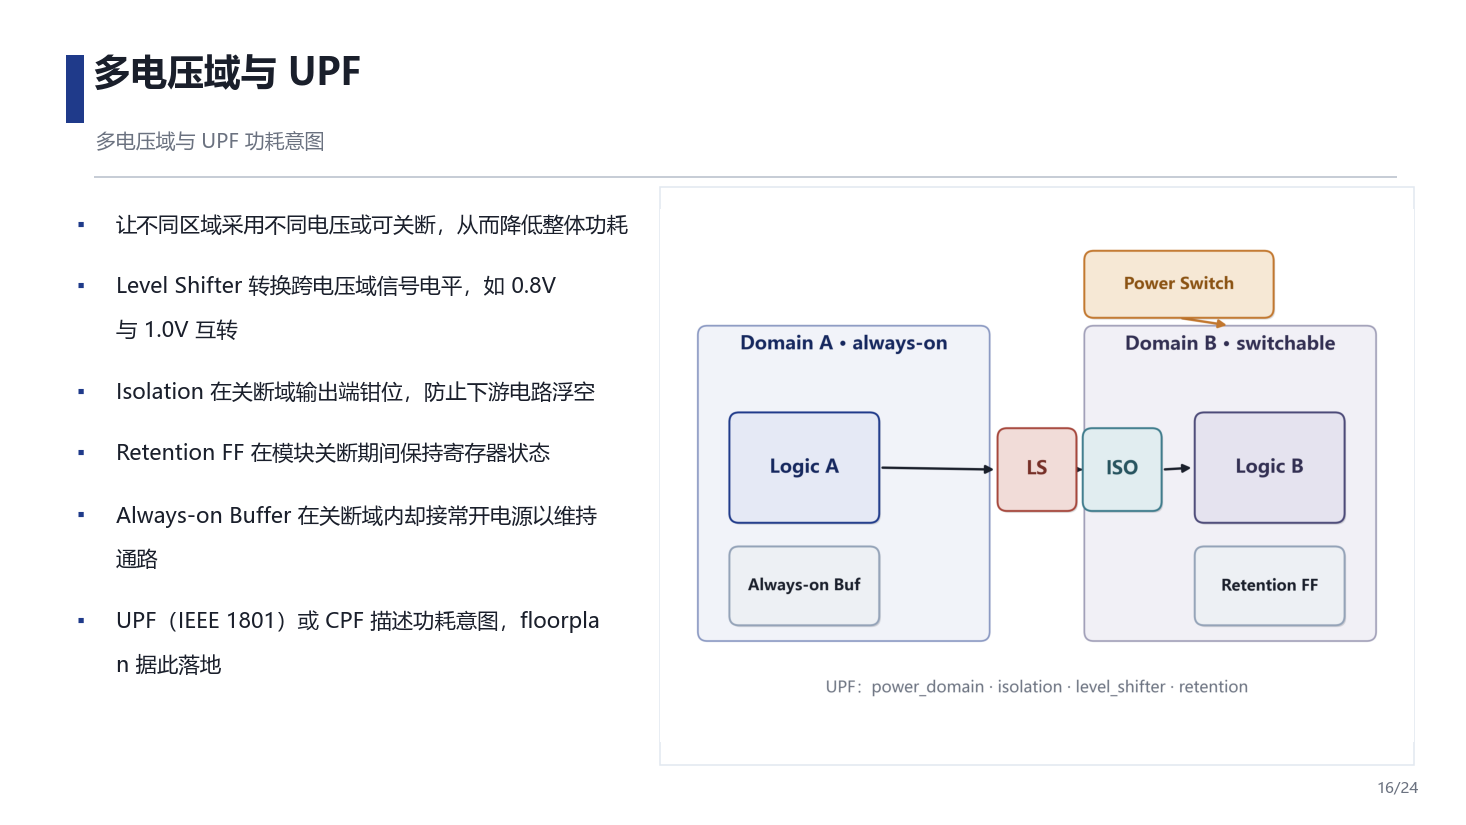
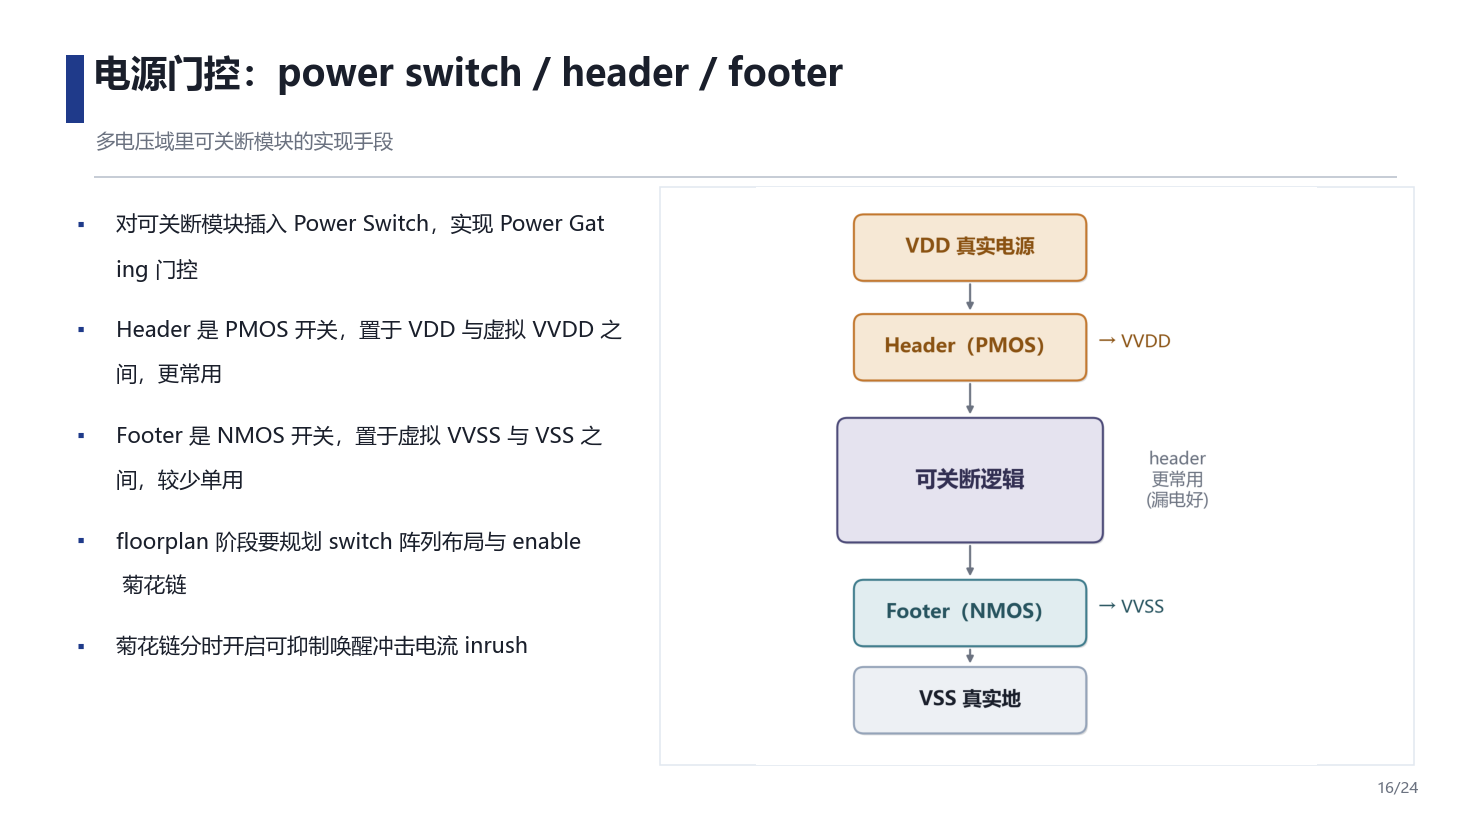
①(a) swap 门控↔多电压 (concept before technique) across deck/md/script + fix cross-refs/transitions; ② use real slide-layout master for chrome (bar/hairline/footer) so new slides inherit styling
deck.py: _layout_chrome copies chrome shapes into the layout's spTree (via scratch slide) → content slides inherit, cover/close mask it; restyle in one place / PowerPoint master view

diff --git a/_SlideKit/deck.py b/_SlideKit/deck.py
@@ -12,6 +12,7 @@ kind ∈ title | split | cards2 | grid6 | cols2 | close
 """
 import os
 import sys
+import copy
 
 import matplotlib
 matplotlib.use("Agg")
@@ -120,16 +121,42 @@ def _card(slide, x, t, w, h, fill="FFFFFF", line="CBD5E1", accent=None):
 
 
 def _title_block(slide, title, sub, accent=PRIMARY):
-    _bar(slide, 0.6, 0.5, 0.16, 0.62, PRIMARY)            # 左侧主色竖条（统一）
+    # 左侧主色竖条 + 全宽细分隔线已下放到版式（母版）上，这里只填每页不同的标题文本
     _txt(slide, (0.85, 0.42, 11.8, 0.8), [title], sizes=[28], bolds=[True], colors=[INK_C])
     if sub:
         _txt(slide, (0.87, 1.18, 11.8, 0.5), [sub], sizes=[14], colors=[SUB_C])
-    _bar(slide, 0.85, 1.6, 11.85, 0.022, HAIR_C)          # 全宽细分隔线（母版感）
 
 
-def _page(slide, n, total, label=PAGE_LABEL):
+def _page(slide, n, total):
+    # 页脚标签也在版式（母版）上，这里只填每页不同的页码
     _txt(slide, (10.8, 7.06, 2.2, 0.4), [f"{n:02d} / {total:02d}"], sizes=[10], colors=[PAGE_C], align=PP_ALIGN.RIGHT)
-    _txt(slide, (0.6, 7.06, 7, 0.4), [label], sizes=[10], colors=[PAGE_C])
+
+
+def _layout_chrome(prs, lay):
+    """把每页重复出现的"母版件"放到【版式】上——内容/导览页自动继承，新增页自动带样式；
+    要全局改样式（条色/分隔线/页脚）只改这一处，或直接在 PowerPoint 的版式视图里改。
+    python-pptx 不支持直接给版式加形状，故先在草稿页上画好，再把形状 XML 复制进版式、删草稿页。"""
+    scratch = prs.slides.add_slide(lay)
+    before = len(scratch.shapes._spTree)
+    _bar(scratch, 0.6, 0.5, 0.16, 0.62, PRIMARY)        # 左侧主色竖条
+    _bar(scratch, 0.85, 1.6, 11.85, 0.022, HAIR_C)      # 全宽细分隔线
+    _txt(scratch, (0.6, 7.06, 7, 0.4), [PAGE_LABEL], sizes=[10], colors=[PAGE_C])  # 左下页脚标签
+    lay_spTree = lay.shapes._spTree
+    for el in list(scratch.shapes._spTree)[before:]:
+        lay_spTree.append(copy.deepcopy(el))
+    sldIdLst = prs.slides._sldIdLst                      # 删掉这张临时草稿页
+    sid = sldIdLst[-1]
+    rId = sid.get(qn("r:id"))
+    sldIdLst.remove(sid)
+    try:
+        prs.part.drop_rel(rId)
+    except Exception:
+        pass
+
+
+def _mask(slide):
+    """封面/收尾页：盖一层满版白底，遮住版式继承来的内容页母版件，再画自己的整版设计。"""
+    _bar(slide, 0, 0, SLIDE_W, SLIDE_H, BG_C)
 
 
 def _bg(slide, color):
@@ -171,6 +198,7 @@ def _circ_num(slide, x, y, num, d=0.46, fill=PRIMARY, fg="FFFFFF", fs=15):
 def _cover(slide, s):
     """封面：浅底 + 左侧主色厚竖条 + 大标题，独立于内容页版式。"""
     _bg(slide, BG_C)
+    _mask(slide)
     _bar(slide, 0.0, 0.0, 0.30, SLIDE_H, PRIMARY)
     _txt(slide, (1.15, 1.45, 11, 0.4), [s.get("tag", "数字 IC 后端 · DVD Lecture 6")],
          sizes=[14], bolds=[True], colors=[PRIMARY])
@@ -202,6 +230,7 @@ def _agenda(slide, s):
 def _close(slide, s):
     """收尾：浅底 + 左侧主色厚竖条，与封面呼应。"""
     _bg(slide, BG_C)
+    _mask(slide)
     _bar(slide, 0.0, 0.0, 0.30, SLIDE_H, PRIMARY)
     _txt(slide, (1.1, 2.75, 11.6, 1.2), [s["title"]], sizes=[44], bolds=[True], colors=[INK_C])
     if s.get("sub"):
@@ -222,6 +251,7 @@ def build_pptx(specs, out_pptx, total, author="J.C", asset_dir="", template=None
     prs.slide_width = Inches(SLIDE_W); prs.slide_height = Inches(SLIDE_H)
     blank = (min(prs.slide_layouts, key=lambda L: len(L.placeholders)) if template
              else prs.slide_layouts[6])
+    _layout_chrome(prs, blank)  # 母版件下放到版式：所有内容页继承，新增页自动带样式
     for i, s in enumerate(specs, 1):
         sl = prs.slides.add_slide(blank)
         k = s["kind"]

diff --git a/_SlideKit/notes/05_floorplan/slides.py b/_SlideKit/notes/05_floorplan/slides.py
@@ -148,13 +148,6 @@ SPECS = [
         "PG 网络与高翻转信号线的 EM 机理不同，需分别评估",
         "签核常用 Voltus、RedHawk、PrimeRail 等工具",
     ]),
-    split("电源门控：power switch / header / footer", "对可关断模块做 Power Gating", "f14_gating.png", [
-        "对可关断模块插入 Power Switch，实现 Power Gating 门控",
-        "Header 是 PMOS 开关，置于 VDD 与虚拟 VVDD 之间，更常用",
-        "Footer 是 NMOS 开关，置于虚拟 VVSS 与 VSS 之间，较少单用",
-        "floorplan 阶段要规划 switch 阵列布局与 enable 菊花链",
-        "菊花链分时开启可抑制唤醒冲击电流 inrush",
-    ]),
     split("多电压域与 UPF", "多电压域与 UPF 功耗意图", "f10_mv.png", [
         "让不同区域采用不同电压或可关断，从而降低整体功耗",
         "Level Shifter 转换跨电压域信号电平，如 0.8V 与 1.0V 互转",
@@ -162,6 +155,13 @@ SPECS = [
         "Retention FF 在模块关断期间保持寄存器状态",
         "Always-on Buffer 在关断域内却接常开电源以维持通路",
         "UPF（IEEE 1801）或 CPF 描述功耗意图，floorplan 据此落地",
+    ]),
+    split("电源门控：power switch / header / footer", "多电压域里可关断模块的实现手段", "f14_gating.png", [
+        "对可关断模块插入 Power Switch，实现 Power Gating 门控",
+        "Header 是 PMOS 开关，置于 VDD 与虚拟 VVDD 之间，更常用",
+        "Footer 是 NMOS 开关，置于虚拟 VVSS 与 VSS 之间，较少单用",
+        "floorplan 阶段要规划 switch 阵列布局与 enable 菊花链",
+        "菊花链分时开启可抑制唤醒冲击电流 inrush",
     ]),
     split("时序预算与模块划分", "层次化划分与时序预算分配", "f11_budget.png", [
         "层次化设计把芯片按层级切成若干 Block 或 partition",

diff --git a/IC_Backend_Notes/05_Floorplan.md b/IC_Backend_Notes/05_Floorplan.md
@@ -274,23 +274,7 @@ globalNetConnect VDD -type pgpin -pin VDD -all
 
 ---
 
-## Slide 15 · 电源门控：power switch / header / footer
-
-![电源门控 header / footer](assets/floorplan/f14_gating.png)
-
-**知识点**
-
-- 对可关断模块插 **Power Switch** 实现 **Power Gating（功率门控）**
-- **Header（头开关）**：**PMOS**，置于真实 VDD 与模块虚拟电源 **VVDD** 之间；关断时切断正轨；**工程更常用**（漏电控制好）
-- **Footer（脚开关）**：**NMOS**，置于模块虚拟地 **VVSS** 与真实 VSS 之间；关断时切断接地回路；**较少单独使用**
-- header + footer 同时使用更罕见
-- floorplan 阶段要规划：switch **阵列布局**（ring-style 或 grid/column-style）、**enable 信号菊花链（daisy-chain）**走向（控**冲击电流 inrush** 与唤醒时间），以及 **secondary / always-on PG** 连接
-
-> 备注：唤醒冲击电流大 → enable 菊花链**分时**开启。
-
----
-
-## Slide 16 · 多电压域与 UPF
+## Slide 15 · 多电压域与 UPF
 
 ![多电压域与 UPF](assets/floorplan/f10_mv.png)
 
@@ -305,7 +289,7 @@ globalNetConnect VDD -type pgpin -pin VDD -all
 | Isolation Cell | 某域关断时把其输出**钳位**到已知值(0/1)，防下游浮空 | 信号从可关断域进常开域 |
 | Retention FF | 域断电时低漏电“影子锁存”保状态，上电恢复 | 需状态保持的可关断域 |
 | Always-on Buffer | 关断域内但接**常开电源**，保证 enable/retention 控制信号有效 | 控制信号穿过关断域 |
-| Power Switch | 门控供电（见上页） | 可关断域 |
+| Power Switch | 门控供电（见下页） | 可关断域 |
 
 - 顺序：常**先 isolation 后 level shift**（先钳位再转电平），但**非绝对**（取决信号方向与隔离单元供电域；ELS 合并二者则无先后）
 - **UPF**（IEEE 1801，Synopsys 主推）/ **CPF**（Cadence 主推）描述功耗意图；floorplan 据此 `create_voltage_area`、规划独立 PG 与 secondary/always-on 网、放 switch、预留 LS/ISO 位置
@@ -322,6 +306,22 @@ create_voltage_area -power_domain PD_CPU -region {{100 100} {400 400}} VA_CPU
 ```
 
 > 备注：LS 管“电压不同”，ISO 管“关断后输出乱”——常考区别。
+
+---
+
+## Slide 16 · 电源门控：power switch / header / footer
+
+![电源门控 header / footer](assets/floorplan/f14_gating.png)
+
+**知识点**
+
+- 对可关断模块插 **Power Switch** 实现 **Power Gating（功率门控）**；它是上页多电压域里“可关断模块”的具体实现手段
+- **Header（头开关）**：**PMOS**，置于真实 VDD 与模块虚拟电源 **VVDD** 之间；关断时切断正轨；**工程更常用**（漏电控制好）
+- **Footer（脚开关）**：**NMOS**，置于模块虚拟地 **VVSS** 与真实 VSS 之间；关断时切断接地回路；**较少单独使用**
+- header + footer 同时使用更罕见
+- floorplan 阶段要规划：switch **阵列布局**（ring-style 或 grid/column-style）、**enable 信号菊花链（daisy-chain）**走向（控**冲击电流 inrush** 与唤醒时间），以及 **secondary / always-on PG** 连接
+
+> 备注：唤醒冲击电流大 → enable 菊花链**分时**开启。
 
 ---
 

diff --git a/IC_Backend_Notes/lecture_scripts/05_Floorplan.md b/IC_Backend_Notes/lecture_scripts/05_Floorplan.md
@@ -89,21 +89,21 @@ Core 内部的骨架基本成型，现在把视线移到芯片边界——信号
 
 ---
 
-## Slide 15 · 电源门控：power switch / header / footer
+## Slide 15 · 多电压域与 UPF
 
-控住了 IR 和 EM，下一个功耗维度是漏电——对不工作的模块直接断电，这就是电源门控，而它的开关阵列同样要在 floorplan 阶段就排进去。对可关断模块插 Power Switch 实现 Power Gating（功率门控）。Header（头开关）是 PMOS，置于真实 VDD 与模块虚拟电源 VVDD 之间，关断时切断正轨，工程上更常用，因为漏电控制好。Footer（脚开关）是 NMOS，置于模块虚拟地 VVSS 与真实 VSS 之间，关断时切断接地回路，较少单独使用；header 加 footer 同时用就更罕见。floorplan 阶段要规划三件事：switch 的阵列布局（ring-style 或 grid/column-style）、enable 信号菊花链（daisy-chain）的走向（用来控制冲击电流 inrush 与唤醒时间），以及 secondary/always-on PG 的连接。一个要点：唤醒时冲击电流很大，所以 enable 菊花链要分时错开开启。
+控住了 IR 和 EM，我们再往功耗维度上走一层：与其让全芯片跑同一个电压，不如让不同模块用不同电压、甚至干脆可关断——这就是多电压域设计，它需要一整套专用单元来处理跨域的电平和断电问题，并且全程由 UPF/CPF 来描述意图。每个独立的电压/电源状态区域就是一个电压岛/电源域。关键专用单元有五类：Level Shifter 负责跨电压域信号的电平转换，比如 0.8V 和 1.0V 之间；Isolation Cell 在某域关断时把它的输出钳位到已知值 0 或 1，防止下游浮空，用于信号从可关断域进入常开域；Retention FF 在域断电时用低漏电的「影子锁存」保住状态，上电后恢复；Always-on Buffer 身在关断域内却接常开电源，保证 enable/retention 这类控制信号始终有效；Power Switch 则是下一页要专门讲的门控开关。一个顺序问题：通常先 isolation 后 level shift（先钳位再转电平），但这不绝对，取决于信号方向与隔离单元的供电域，如果用 ELS 把两者合并就没有先后。整套意图由 UPF（IEEE 1801，Synopsys 主推）或 CPF（Cadence 主推）描述，floorplan 据此 `create_voltage_area`、规划独立 PG 与 secondary/always-on 网、放 switch、预留 LS 和 ISO 的位置。记住区别：LS 管「电压不同」，ISO 管「关断后输出乱」。
 
 ---
 
-## Slide 16 · 多电压域与 UPF
+## Slide 16 · 电源门控：power switch / header / footer
 
-电源门控是「整块断电」，再进一步，不同模块本身就跑在不同电压上——这就是多电压域，它需要一整套专用单元来处理跨域的电平和断电问题，并且全程由 UPF/CPF 来描述意图。不同模块工作在不同电压，或者干脆可关断，以此省功耗，每个独立的电压/电源状态区域就是一个电压岛/电源域。关键专用单元有五类：Level Shifter 负责跨电压域信号的电平转换，比如 0.8V 和 1.0V 之间；Isolation Cell 在某域关断时把它的输出钳位到已知值 0 或 1，防止下游浮空，用于信号从可关断域进入常开域；Retention FF 在域断电时用低漏电的「影子锁存」保住状态，上电后恢复；Always-on Buffer 身在关断域内却接常开电源，保证 enable/retention 这类控制信号始终有效；Power Switch 就是上一页讲的门控。一个顺序问题：通常先 isolation 后 level shift（先钳位再转电平），但这不绝对，取决于信号方向与隔离单元的供电域，如果用 ELS 把两者合并就没有先后。整套意图由 UPF（IEEE 1801，Synopsys 主推）或 CPF（Cadence 主推）描述，floorplan 据此 `create_voltage_area`、规划独立 PG 与 secondary/always-on 网、放 switch、预留 LS 和 ISO 的位置。记住区别：LS 管「电压不同」，ISO 管「关断后输出乱」。
+多电压域里最激进的一招，是把暂时不工作的模块整块断电——这就是电源门控（power gating）；和上面那几个专用单元一样，它的开关阵列也必须在 floorplan 阶段就排进去。对可关断模块插 Power Switch 实现 Power Gating（功率门控）。Header（头开关）是 PMOS，置于真实 VDD 与模块虚拟电源 VVDD 之间，关断时切断正轨，工程上更常用，因为漏电控制好。Footer（脚开关）是 NMOS，置于模块虚拟地 VVSS 与真实 VSS 之间，关断时切断接地回路，较少单独使用；header 加 footer 同时用就更罕见。floorplan 阶段要规划三件事：switch 的阵列布局（ring-style 或 grid/column-style）、enable 信号菊花链（daisy-chain）的走向（用来控制冲击电流 inrush 与唤醒时间），以及 secondary/always-on PG 的连接。一个要点：唤醒时冲击电流很大，所以 enable 菊花链要分时错开开启。
 
 ---
 
 ## Slide 17 · 时序预算与模块划分
 
-电压域把芯片切成了若干电源域，而层次化设计还要按时序把顶层切成块来分别实现——这就回到了 Slide 12 埋的伏笔：每个块要拿到自己的时序预算才能独立收敛。层次化设计中顶层切成 Partition/Block 分别实现，每个 block 对外端口都需要一份 Timing Budget——把顶层路径约束拆到各 block 边界，生成每个 block 各自的 SDC。预算合理，各 block 独立收敛后顶层就能收敛；不合理，就得反复迭代。这里 pin 位置与 budget 强耦合：pin 离驱动或接收逻辑越远，块内走线越长、可用 budget 越少。自动预算工具：ICC2 用 `allocate_budgets` / `estimate_timing`，Innovus 用 `deriveTimingBudget`，或者用 `create_block_abstraction` 加 ETM（Extracted Timing Model）。还有 ILM（Interface Logic Model），只保留接口逻辑、抽掉块内部，用来简化并加速顶层时序收敛，是层次化设计常用的手段。注意 block 的 SDC budget 不只是 input/output delay，还包含时钟不确定度、时钟延迟、驱动单元/输入转换、负载。一句话：预算就是把一条总约束像切蛋糕一样分给各层级。
+电源和电压域都规划完了，接下来换一个维度切分芯片——层次化设计要按时序把顶层切成块来分别实现，这就回到了 Slide 12 埋的伏笔：每个块要拿到自己的时序预算才能独立收敛。层次化设计中顶层切成 Partition/Block 分别实现，每个 block 对外端口都需要一份 Timing Budget——把顶层路径约束拆到各 block 边界，生成每个 block 各自的 SDC。预算合理，各 block 独立收敛后顶层就能收敛；不合理，就得反复迭代。这里 pin 位置与 budget 强耦合：pin 离驱动或接收逻辑越远，块内走线越长、可用 budget 越少。自动预算工具：ICC2 用 `allocate_budgets` / `estimate_timing`，Innovus 用 `deriveTimingBudget`，或者用 `create_block_abstraction` 加 ETM（Extracted Timing Model）。还有 ILM（Interface Logic Model），只保留接口逻辑、抽掉块内部，用来简化并加速顶层时序收敛，是层次化设计常用的手段。注意 block 的 SDC budget 不只是 input/output delay，还包含时钟不确定度、时钟延迟、驱动单元/输入转换、负载。一句话：预算就是把一条总约束像切蛋糕一样分给各层级。
 
 ---
 